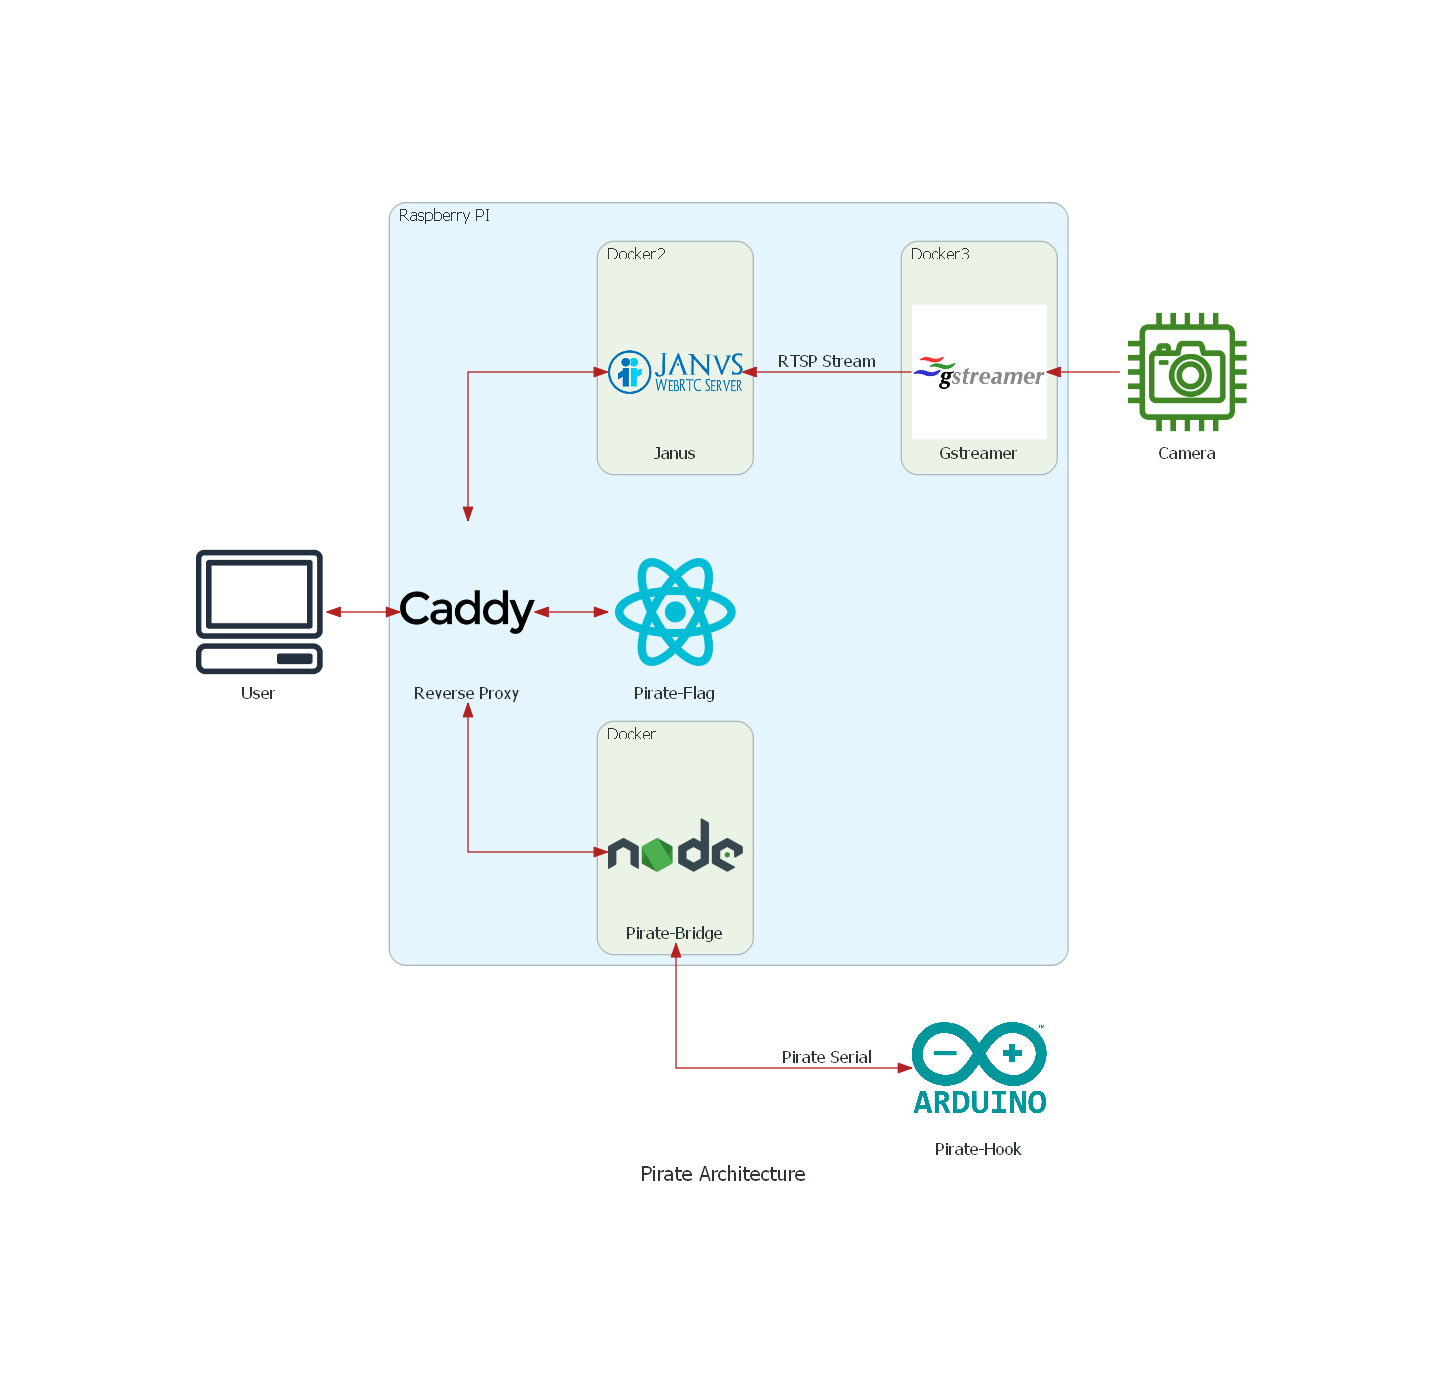
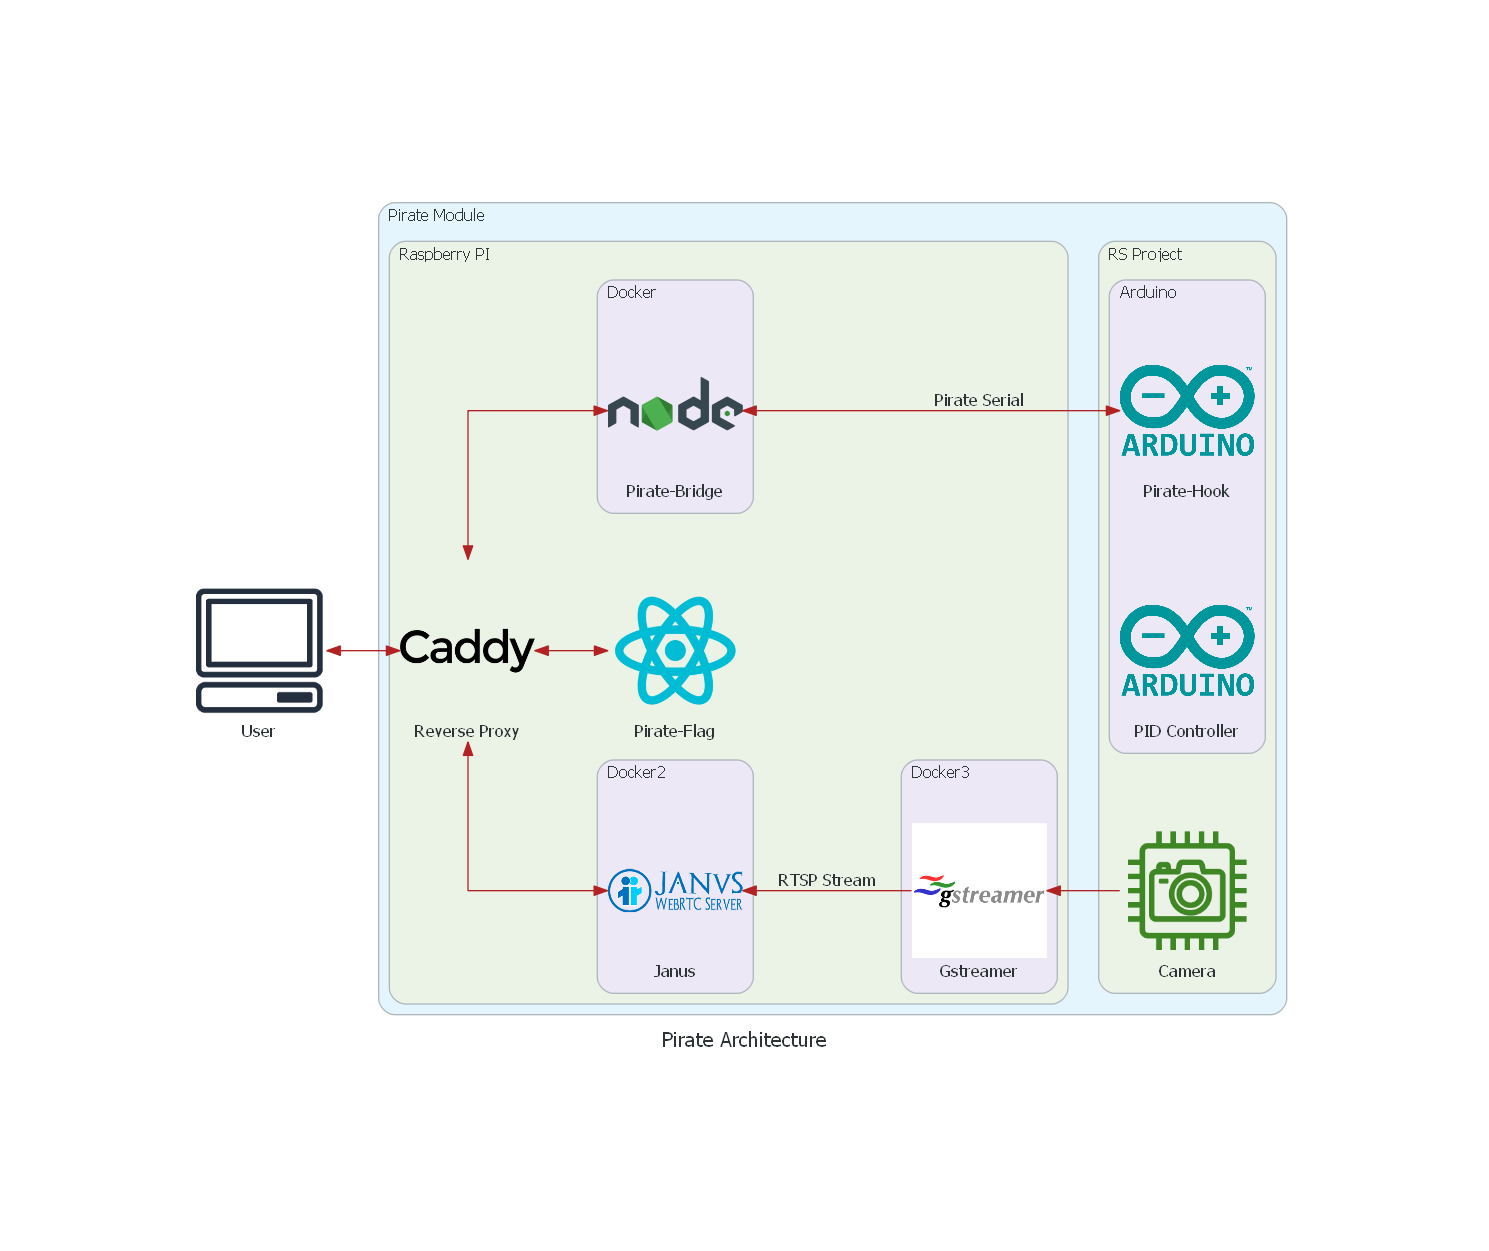
Liitle improvment architecture Picture

Changed region(s): [[0.1244, 0.1247, 0.8708, 0.8729], [0.311, 0.3118, 0.3421, 0.3741], [0.622, 0.5923, 0.6531, 0.6235]]

diff --git a/createDiagram/create_diagrams.py b/createDiagram/create_diagrams.py
@@ -20,26 +20,29 @@ from diagrams.programming.language import NodeJS
 
 
 with Diagram(name="Pirate Architecture", show=False):
-    with Cluster("Raspberry PI"):
-        with Cluster("Docker"):
-            nodeJs = NodeJS("Pirate-Bridge")
+    with Cluster("Pirate Module"):
+        with Cluster("Raspberry PI"):
+            with Cluster("Docker"):
+                nodeJs = NodeJS("Pirate-Bridge")
 
-        with Cluster("Docker2"):
-            Janus = Custom("Janus", "./customImages/janus-logo.png")
+            with Cluster("Docker2"):
+                Janus = Custom("Janus", "./customImages/janus-logo.png")
 
-        with Cluster("Docker3"):
-            Gstreamer = Custom("Gstreamer", "./customImages/gstreamer-logo.png")
-            
-        Janus << Edge(label="RTSP Stream",color="firebrick") << Gstreamer
-        react = React("Pirate-Flag")
-        caddy = Caddy("Reverse Proxy")
-        caddy << Edge(color="firebrick") >> Janus
-        caddy << Edge(color="firebrick") >> react
-        caddy << Edge(color="firebrick") >> nodeJs
+            with Cluster("Docker3"):
+                Gstreamer = Custom("Gstreamer", "./customImages/gstreamer-logo.png")
+                
+            Janus << Edge(label="RTSP Stream",color="firebrick") << Gstreamer
+            react = React("Pirate-Flag")
+            caddy = Caddy("Reverse Proxy")
+            caddy << Edge(color="firebrick") >> Janus
+            caddy << Edge(color="firebrick") >> react
+            caddy << Edge(color="firebrick") >> nodeJs
 
-
-    piCamera = IotCamera("Camera")
-    arduino = Custom("Pirate-Hook", "./customImages/720px-Arduino_Logo.png")
+        with Cluster("RS Project"):
+            piCamera = IotCamera("Camera")
+            with Cluster("Arduino"):
+                arduino = Custom("Pirate-Hook", "./customImages/720px-Arduino_Logo.png")
+                pid = Custom("PID Controller", "./customImages/720px-Arduino_Logo.png")
 
     # Data from Arduino to Pi
     nodeJs << Edge(label="Pirate Serial",color="firebrick") >> arduino

diff --git a/docs/Pirate-Bridge/setupraspberrypi.md b/docs/Pirate-Bridge/setupraspberrypi.md
@@ -15,7 +15,7 @@
    - Install [Nodejs]
    - Install [Docker]
 
-
+Setup instructions for a Desktop Version can be found here:
 https://projects.raspberrypi.org/en/projects/raspberry-pi-setting-up
 
 ## 1. Install Raspberry Pi OS
@@ -24,7 +24,7 @@ https://www.raspberrypi.org/documentation/installation/installing-images/README.
 
 ### Download Image from Raspberry Pi homepage and using an Imager to install it
 
- Prepare SD Card
+Prepare SD Card
 SD Card Formater
 https://www.sdcard.org/downloads/formatter/
 
